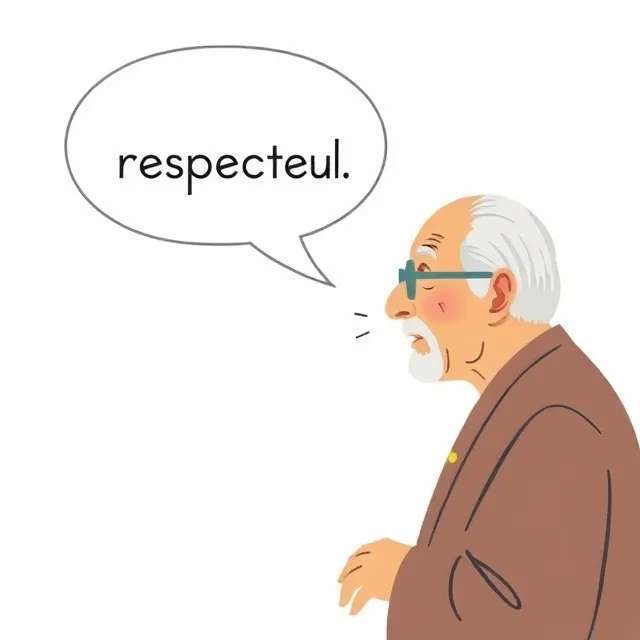
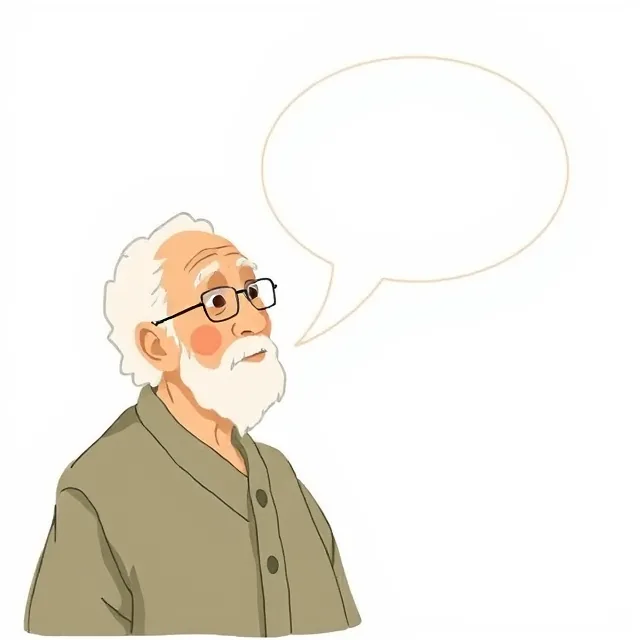
베트남 사람이 보는 화면에서 한국어를 걷어냈다 — 시험 이름까지
베트남어 화면을 자동으로 훑어 한글이 남은 곳을 찾았다(화면마다 글자를 긁어
한글이 있으면 잡는 방식). 나온 것들:

· **시험 이름과 설명 21종이 전부 한국어였다.** 'EPS-TOPIK 모의고사',
  'EPS 직무 어휘 · 고무·플라스틱' … 베트남 사람이 무엇을 풀지 **고를 수가 없었다.**
  모의고사 목록은 이 앱의 주 메뉴인데.
  → tr() 사전이 아니라 **생성기에** name_vi·desc_vi 를 같이 내게 했다.
    문항 수가 바뀌어도 설명과 어긋나지 않게. 업종 이름표도 함께 만들었다.
· 모의고사 첫 안내가 **두 군데에 똑같이** 있었는데 한 곳만 tr() 로 감싸여 있었다.
  화면에 뜨는 것은 안 감싼 쪽이었다.
· 공통문항·짝 미션·답 잠금 안내도 tr() 는 걸었지만 베트남어가 없었다 — 10줄 넣었다.
· '틀린 문항 N개' · '말하기·쓰기 연습' · '구술 N세트' 도 마저.

이제 남는 한글은 **문항 내용뿐**이다 — 한국어 시험이니 그건 한글이 맞다.

diff --git a/app.js b/app.js
@@ -523,6 +523,26 @@ const UIVI = {
   '이름 (예: 하노이 탁구, 빈즈엉 3공장)': 'Tên nhóm (ví dụ: Bóng bàn Hà Nội, Nhà máy 3 Bình Dương)',
   '한 줄 소개 (60자 — 예: 퇴근 후 풋살, 초보 환영)': 'Giới thiệu một dòng (60 ký tự — ví dụ: Đá bóng sau giờ làm, chào người mới)',
   '오늘 배운 것, 한 마디… (베트남어 환영)': 'Hôm nay bạn học được gì? Viết một câu… (tiếng Việt cũng được)',
+  '실제 시험과 <b>같은 형식</b>으로 풀어 봅니다.':
+    'Làm bài với <b>đúng định dạng</b> của kỳ thi thật.',
+  '문항은 우리가 직접 만든 것입니다 — 기출 문제가 아닙니다.':
+    'Câu hỏi do chúng tôi tự soạn — không phải đề thi thật.',
+  '공통문항': 'Câu hỏi chung', '회차': ' lượt',
+  '지난 회차보다 늘었습니다.': 'Bạn đã tiến bộ so với lượt trước.',
+  '지난 회차와 같습니다.': 'Bằng với lượt trước.',
+  '지난 회차보다 줄었습니다.': 'Thấp hơn lượt trước.',
+  '이 여섯 문항은 모든 회차에 똑같이 들어 있습니다. 회차마다 문제가 달라 총점은 흔들릴 수 있지만, 여기 숫자는 회차끼리 그대로 견줄 수 있습니다.':
+    'Sáu câu này giống nhau ở mọi lượt thi. Tổng điểm có thể thay đổi vì đề khác nhau, '
+    + 'nhưng con số ở đây thì so sánh được giữa các lượt.',
+  '짝과 함께': 'Cùng bạn học',
+  '자기 것만 여십시오 — 서로 보면 물어볼 것이 없어집니다.':
+    'Chỉ mở phần của mình — nếu xem của nhau thì không còn gì để hỏi.',
+  '눌러서 보기': 'Nhấn để xem',
+  '실제 시험과 같이, 한 번 고른 답은 바꿀 수 없습니다.':
+    'Giống kỳ thi thật: đã chọn đáp án thì không đổi được.',
+  '말하기 · 쓰기 연습': 'Luyện nói · viết',
+  '구술 N세트 · 작문 M제목': 'N bộ nói · M đề viết',
+  '틀린 문항 N개': 'N câu sai', '나는 W': 'Tôi là W',
   '서버 진도': 'Tiến độ trên máy chủ', '나중에 둘러보기': 'Xem sau', '처음이세요? 가입하기': 'Lần đầu? Đăng ký', '이미 계정이 있어요 — 로그인': 'Đã có tài khoản — Đăng nhập', '가입하기': 'Đăng ký', '로그인': 'Đăng nhập', '회원가입': 'Đăng ký', '뭐예요?': 'Là gì?',
   '동아리 만들기': 'Tạo câu lạc bộ', '다른 동아리 보기': 'Xem CLB khác', '동아리 탈퇴': 'Rời CLB',
   '동아리 사람들': 'Thành viên CLB', '오늘 한 줄': 'Một dòng hôm nay', '이번 주 출석': 'Điểm danh tuần này',
@@ -2364,11 +2384,17 @@ const MENUS = new Proxy({}, {
 let EX = null;                      // {exam, at, marks[], t0, timer}
 let EXDATA = null;                  // ko_exams.json (한 번만 받아 둔다)
 
+/* 시험 이름·설명은 tr() 사전이 아니라 **데이터에** 두 나라 말이 다 있다
+   (ko_exam_gen 이 name_vi·desc_vi 를 같이 낸다). 문항 수가 바뀌어도 어긋나지 않게
+   생성기 쪽에 둔 것이다. 여기서는 화면 말에 맞춰 고르기만 한다. */
+const exName = e => (S.ui === 'vi' && e.name_vi) ? e.name_vi : e.name;
+const exDesc = e => (S.ui === 'vi' && e.desc_vi) ? e.desc_vi : e.desc;
+
 function examEntry() {
   const b = $('#examBody');
   b.textContent = '';
-  b.append(el('p', 'lede', '실제 시험과 <b>같은 형식</b>으로 풀어 봅니다.<br>'
-    + '문항은 우리가 직접 만든 것입니다 — 기출 문제가 아닙니다.'));
+  b.append(el('p', 'lede', tr('실제 시험과 <b>같은 형식</b>으로 풀어 봅니다.') + '<br>'
+    + tr('문항은 우리가 직접 만든 것입니다 — 기출 문제가 아닙니다.')));
   show('exam', '모의고사', true);
   if (EXDATA) return drawExamList();
   b.append(el('p', 'note', '시험지 받는 중…'));
@@ -2382,8 +2408,8 @@ function examEntry() {
 }
 
 function examGroup(host, list) {
-  host.append(el('h3', 'exhead', esc(list[0].name)));
-  host.append(el('p', 'note', esc(list[0].desc)));
+  host.append(el('h3', 'exhead', esc(exName(list[0]))));
+  host.append(el('p', 'note', esc(exDesc(list[0]))));
   list.forEach(e => {
     const best = (S.exam || {})[e.id + '-' + e.set];
     const btn = el('button', 'bigmenu');
@@ -2422,8 +2448,8 @@ function drawRedoRow(host) {
 function drawExamList() {
   const b = $('#examBody');
   b.textContent = '';
-  b.append(el('p', 'lede', '실제 시험과 <b>같은 형식</b>으로 풀어 봅니다.<br>'
-    + '문항은 우리가 직접 만든 것입니다 — 기출 문제가 아닙니다.'));
+  b.append(el('p', 'lede', tr('실제 시험과 <b>같은 형식</b>으로 풀어 봅니다.') + '<br>'
+    + tr('문항은 우리가 직접 만든 것입니다 — 기출 문제가 아닙니다.')));
   drawRedoRow(b);
   // 시험이 서른 벌이 넘는다. 한 줄로 늘어놓으면 못 찾으니 목적별로 접어 둔다.
   const byId = {};
@@ -2469,8 +2495,9 @@ function drawExamList() {
   b.append(sg);
 
   const x = el('button', 'bigmenu');
-  x.append(el('b', null, '말하기 · 쓰기 연습'));
-  x.append(el('span', 'exmeta', `구술 ${EXDATA.extra.speak.length}세트 · 작문 ${EXDATA.extra.write.length}제목`));
+  x.append(el('b', null, tr('말하기 · 쓰기 연습')));
+  x.append(el('span', 'exmeta', tr('구술 N세트 · 작문 M제목')
+    .replace('N', EXDATA.extra.speak.length).replace('M', EXDATA.extra.write.length)));
   x.onclick = examExtra;
   b.append(x);
 }
@@ -3032,7 +3059,7 @@ function drawExamQ() {
   });
   b.append(pad);
 
-  show('exam', e.name, true);
+  show('exam', exName(e), true);
 }
 
 /* ── 공통문항 ────────────────────────────────────────────────────
@@ -3153,7 +3180,7 @@ function finishExam(timeUp) {
   anchorPanel(b, e, marks);
 
   if (wrong.length) {
-    b.append(el('h3', 'exhead', `틀린 문항 ${wrong.length}개`));
+    b.append(el('h3', 'exhead', tr('틀린 문항 N개').replace('N', wrong.length)));
     const CIRC = '①②③④';
     wrong.forEach(({ q, picked }) => {
       const c = el('div', 'excard wrong');
@@ -3240,7 +3267,7 @@ function finishExam(timeUp) {
     const redo = el('button', 'primary big', `${tr('틀린 문항만 다시 풀기')} (${wrong.length})`);
     redo.style.marginTop = '18px';
     redo.onclick = () => startExam({
-      ...e, sub: true, full: 0, grades_at: null, name: e.name + ' · ' + tr('오답'),
+      ...e, sub: true, full: 0, grades_at: null, name: exName(e) + ' · ' + tr('오답'),
       minutes: Math.max(5, Math.round(e.minutes * wrong.length / e.questions.length)),
       questions: wrong.map(w => w.q),
     });
@@ -3353,7 +3380,7 @@ function examExtra() {
   const lg = (EXDATA.extra || {}).t2_long || [];
   if (bl.length || lg.length) {
     b.append(el('h3', 'exhead', 'TOPIK II 쓰기'));
-    b.append(el('p', 'note', '51·52번은 빈칸 채우기, 53·54번은 긴 글입니다. 실제 시험과 같은 꼴입니다.'));
+    b.append(el('p', 'note', tr('51·52번은 빈칸 채우기, 53·54번은 긴 글입니다. 실제 시험과 같은 꼴입니다.')));
     bl.forEach((w, i) => {
       const btn = el('button', 'bigmenu');
       btn.append(el('b', null, tr('빈칸 채우기') + ' · ' + esc(w.title)));
@@ -5181,7 +5208,7 @@ function missionCard(host, d) {
     [['A', m.a], ['B', m.b]].forEach(([who, txt]) => {
       if (!txt) return;
       const btn = el('button', 'msrole');
-      btn.append(el('b', null, '나는 ' + who), el('span', null, tr('눌러서 보기')));
+      btn.append(el('b', null, tr('나는 W').replace('W', who)), el('span', null, tr('눌러서 보기')));
       btn.onclick = () => {
         btn.textContent = '';
         btn.className = 'msrole open';

diff --git a/index.html b/index.html
@@ -11,7 +11,7 @@
 <meta name="apple-mobile-web-app-title" content="짜오짜오">
 <meta name="mobile-web-app-capable" content="yes">
 <title>짜오짜오 — 베트남어</title>
-<link rel="stylesheet" href="style.css?v=e87e5e6b">
+<link rel="stylesheet" href="style.css?v=37a21b98">
 </head>
 <body>
 
@@ -145,7 +145,7 @@
   </section>
 </main>
 
-<script src="pitch.js?v=e87e5e6b"></script>
-<script src="app.js?v=e87e5e6b"></script>
+<script src="pitch.js?v=37a21b98"></script>
+<script src="app.js?v=37a21b98"></script>
 </body>
 </html>

diff --git a/sw.js b/sw.js
@@ -1,7 +1,7 @@
 /* 오프라인 캐시.
    앱 껍데기와 커리큘럼은 처음 열 때 통째로 받아두고,
    음성은 22MB나 되므로 한 번 재생한 것만 캐시에 남긴다 (데이터 요금 배려). */
-const V = 'vn-e87e5e6b';
+const V = 'vn-37a21b98';
 const SHELL = ['./', './index.html', './app.js', './pitch.js', './style.css',
                './manifest.json', './icon.png',
                './data/days.json', './data/audio_index.json'];

diff --git a/tools/ko_exam_gen.py b/tools/ko_exam_gen.py
@@ -763,10 +763,18 @@ def bp_sets(areas):
 
 # ── 시험 설계도 ──────────────────────────────────────────────
 # 문항 수·시간·유형 배열은 실제 시험을 그대로 따랐다(형식은 사실이라 따라도 된다).
+# 업종 이름 — 베트남 사람이 고르는 자리라 베트남어가 있어야 한다
+IND_VI = {"고무·플라스틱": "Cao su · Nhựa", "기계·금형": "Cơ khí · Khuôn mẫu",
+          "섬유·의복": "Dệt may", "식품": "Thực phẩm", "전자·전기": "Điện tử · Điện",
+          "펄프·제지·목재": "Bột giấy · Giấy · Gỗ", "화학": "Hóa chất",
+          "금속": "Kim loại"}
+
 BLUEPRINTS = {
     # EPS-TOPIK은 읽기 20 + 듣기 20 = 40문항이다. 그 비율을 그대로 지켰다.
     "eps-topik": {
         "name": "EPS-TOPIK 모의고사",
+        "name_vi": 'Đề thi thử EPS-TOPIK',
+        "desc_vi": 'Kỳ thi năng lực tiếng Hàn EPS · Đọc 20 + Nghe 20',
         "desc": "고용허가제 한국어능력시험 · 읽기 20 + 듣기 20",
         "minutes": 50,
         # 두 번 — **공식 프로그램에서 확정했다**(2026-08-29).
@@ -804,6 +812,8 @@ BLUEPRINTS = {
     # 필기에 듣기가 없는 것은 맞다(듣기 대신 구술이 따로 있다).
     "kiip-pre": {
         "name": "KIIP 사전평가 모의고사",
+        "name_vi": 'Đề thi thử KIIP — Sơ khảo',
+        "desc_vi": 'Bài viết sơ khảo KIIP · 50 câu 60 phút (48 trắc nghiệm + 2 câu tự luận ngắn)',
         "desc": "사회통합프로그램 기본소양 사전평가 필기 · 50문항 60분 (객관식 48 + 단답형 2)",
         "minutes": 60,
         "grades": ["A", "B", "C"],
@@ -827,6 +837,8 @@ BLUEPRINTS = {
     #   필기 50분(객관식 40분 + 작문 10분) + 구술 10분 · 합격 60점
     "kiip-mid": {
         "name": "KIIP 중간평가 모의고사",
+        "name_vi": 'Đề thi thử KIIP — Giữa kỳ',
+        "desc_vi": 'Trắc nghiệm giữa kỳ KIIP · 28 câu 40 phút (viết 2 · vấn đáp 5 tính riêng)',
         "desc": "사회통합프로그램 중간평가 객관식 · 28문항 40분 (작문 2·구술 5는 따로)",
         "minutes": 40,
         "grades": ["A", "B"],
@@ -856,6 +868,8 @@ KIIP_COMP = [
 for _sfx, _nm, _abbr, _pts in KIIP_COMP:
     BLUEPRINTS[f"kiip-{_sfx}"] = {
         "name": f"KIIP {_nm} 종합평가 모의고사",
+        "name_vi": f"Đề thi thử KIIP — Tổng hợp ({'thường trú' if _sfx == 'perm' else 'nhập tịch'})",
+        "desc_vi": "Trắc nghiệm tổng hợp KIIP · 36 câu 60 phút (viết 4 · vấn đáp 5 tính riêng)",
         "desc": f"사회통합프로그램 {_nm} 종합평가({_abbr}) 객관식 · 36문항 60분 "
                 f"(작문 4·구술 5는 따로)",
         "minutes": 60,
@@ -877,6 +891,8 @@ BLUEPRINTS.update({
     # (듣기 30 + 읽기 40 = 70문항, 묶음 26개)
     "topik-1": {
         "name": "TOPIK I 모의고사",
+        "name_vi": 'Đề thi thử TOPIK I',
+        "desc_vi": 'TOPIK I · Nghe 30 + Đọc 40 — theo đúng thứ tự câu hỏi và câu lệnh của khung đề chính thức',
         "desc": "TOPIK I · 듣기 30 + 읽기 40 — 공식 평가틀의 문항 차례와 발문을 그대로 따랐다",
         "minutes": 100,
         "grades": ["A", "B"],
@@ -892,6 +908,8 @@ BLUEPRINTS.update({
     # 쓰기는 정답이 하나가 아니라 extra.write 쪽에서 AI가 채점한다.
     "topik-2-read": {
         "name": "TOPIK II 읽기 모의고사",
+        "name_vi": 'Đề thi thử TOPIK II — Đọc',
+        "desc_vi": 'TOPIK II ca 2 Đọc · 50 câu — theo đúng khung đề chính thức',
         "desc": "TOPIK II 2교시 읽기 · 50문항 — 공식 평가틀의 문항 차례와 발문을 그대로 따랐다",
         "minutes": 70,
         "grades": ["B", "C"],
@@ -901,6 +919,8 @@ BLUEPRINTS.update({
     # 담화의 갈래(대화·인터뷰·토론·강연·대담·다큐·인사말·교양)까지 번호마다 정해져 있다.
     "topik-2-listen": {
         "name": "TOPIK II 듣기 모의고사",
+        "name_vi": 'Đề thi thử TOPIK II — Nghe',
+        "desc_vi": 'TOPIK II ca 1 Nghe · 50 câu — theo đúng khung đề chính thức',
         "desc": "TOPIK II 1교시 듣기 · 50문항 — 공식 평가틀의 문항 차례와 발문을 그대로 따랐다",
         "minutes": 60,
         "grades": ["B", "C"],
@@ -949,6 +969,8 @@ def numbered(mix):
 # 그래서 어휘 문항을 섞지 않고 사회·제도·역사·문화만 낸다.
 BLUEPRINTS["kiip-5"] = {
     "name": "KIIP 5단계 한국사회이해 모의고사",
+        "name_vi": 'Đề thi thử KIIP bậc 5 — Hiểu biết xã hội Hàn Quốc',
+        "desc_vi": 'KIIP bậc 5 · xã hội · thể chế · lịch sử · văn hóa, 40 câu',
     "desc": "사회통합프로그램 5단계 · 사회·제도·역사·문화 40문항",
     "minutes": 40, "grades": ["A", "B", "C"],
     "sections": [{"label": "[1~40] 다음 물음에 알맞은 답을 고르십시오.",
@@ -958,6 +980,8 @@ BLUEPRINTS["kiip-5"] = {
 for st, nm, grades, mix in KIIP_STAGES:
     BLUEPRINTS[f"kiip-{st}"] = {
         "name": f"KIIP {st}단계 평가 모의고사",
+        "name_vi": f"Đề thi thử KIIP — bậc {st}",
+        "desc_vi": f"Dạng bài đánh giá bậc {st} của KIIP",
         "desc": f"사회통합프로그램 {st}단계({nm}) 단계평가 형식 · {sum(n for _, n in mix)}문항",
         "minutes": 30 + st * 5, "grades": grades, "sections": numbered(mix),
     }
@@ -977,6 +1001,8 @@ for _ind, _ws in JOB_VOCAB.items():
     _n = min(20, len(_ws))
     BLUEPRINTS[f"eps-job-{_ind}"] = {
         "name": f"EPS 직무 어휘 · {_ind}",
+        "name_vi": f"Từ vựng nghề EPS · {IND_VI.get(_ind, _ind)}",
+        "desc_vi": f"{IND_VI.get(_ind, _ind)} — từ thực dùng tại nơi làm việc",
         "desc": f"{_ind} 업종에서 실제로 쓰이는 말 {_n}개",
         "minutes": 20, "grades": ["A", "B", "C"], "industry": _ind,
         # 뜻 길이가 안 맞는 낱말은 건너뛰므로 실제 문항 수가 한둘 적을 수 있다.
@@ -1232,6 +1258,7 @@ def build(exam_id, seed, words, gloss, pics, state):
 
     out = {
         "id": exam_id, "set": seed, "name": bp["name"], "desc": bp["desc"],
+        "name_vi": bp.get("name_vi", ""), "desc_vi": bp.get("desc_vi", ""),
         "minutes": bp["minutes"], "total": len(qs), "shortfall": skipped,
         "questions": qs,
     }
